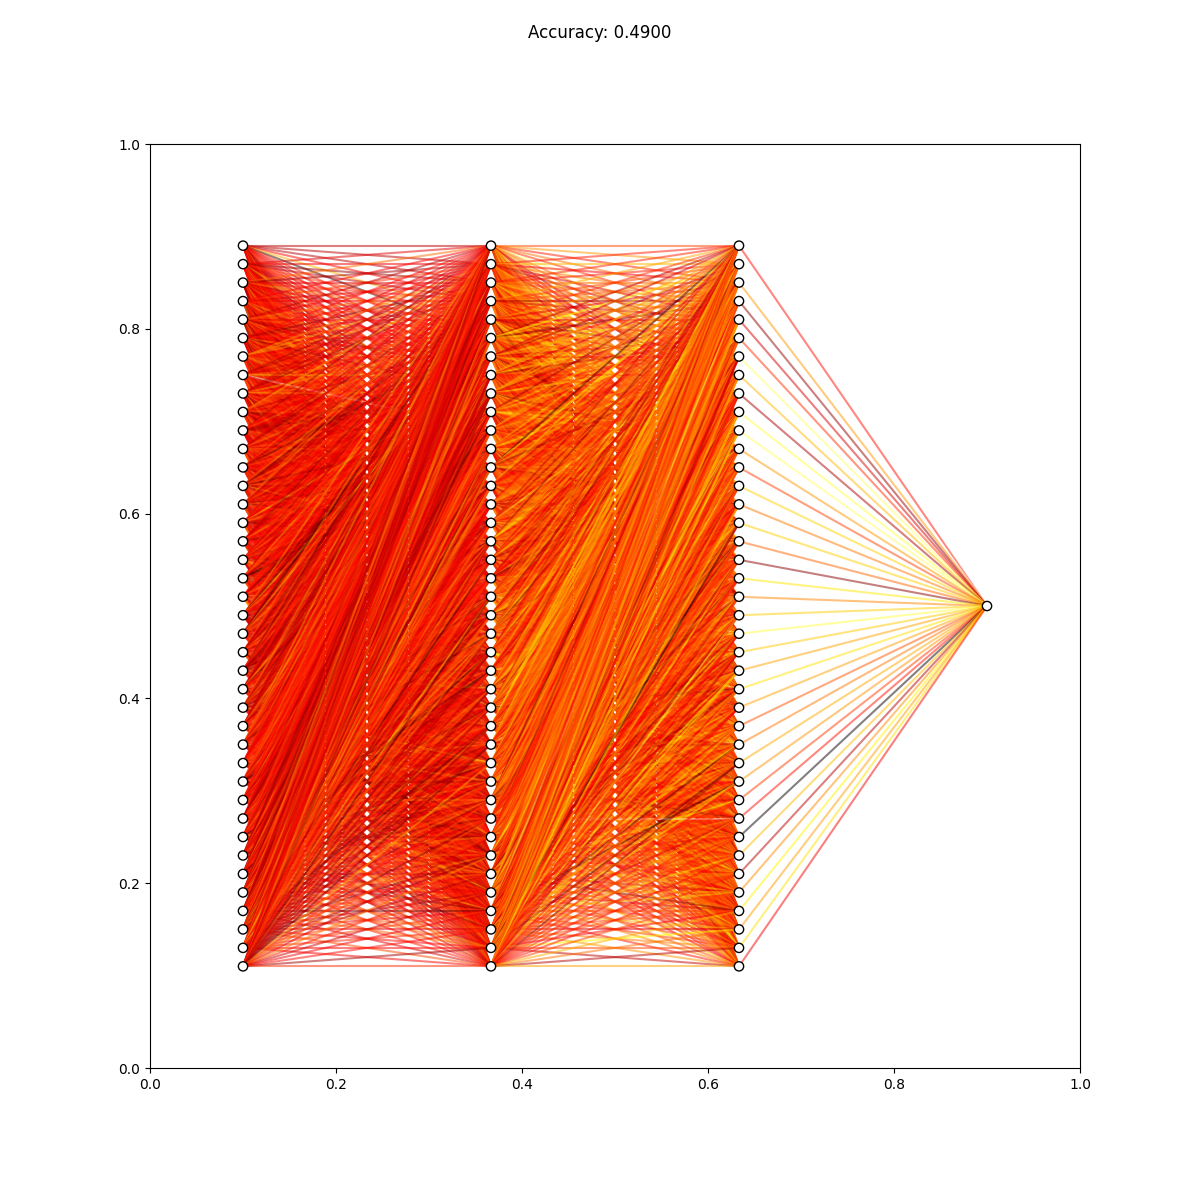
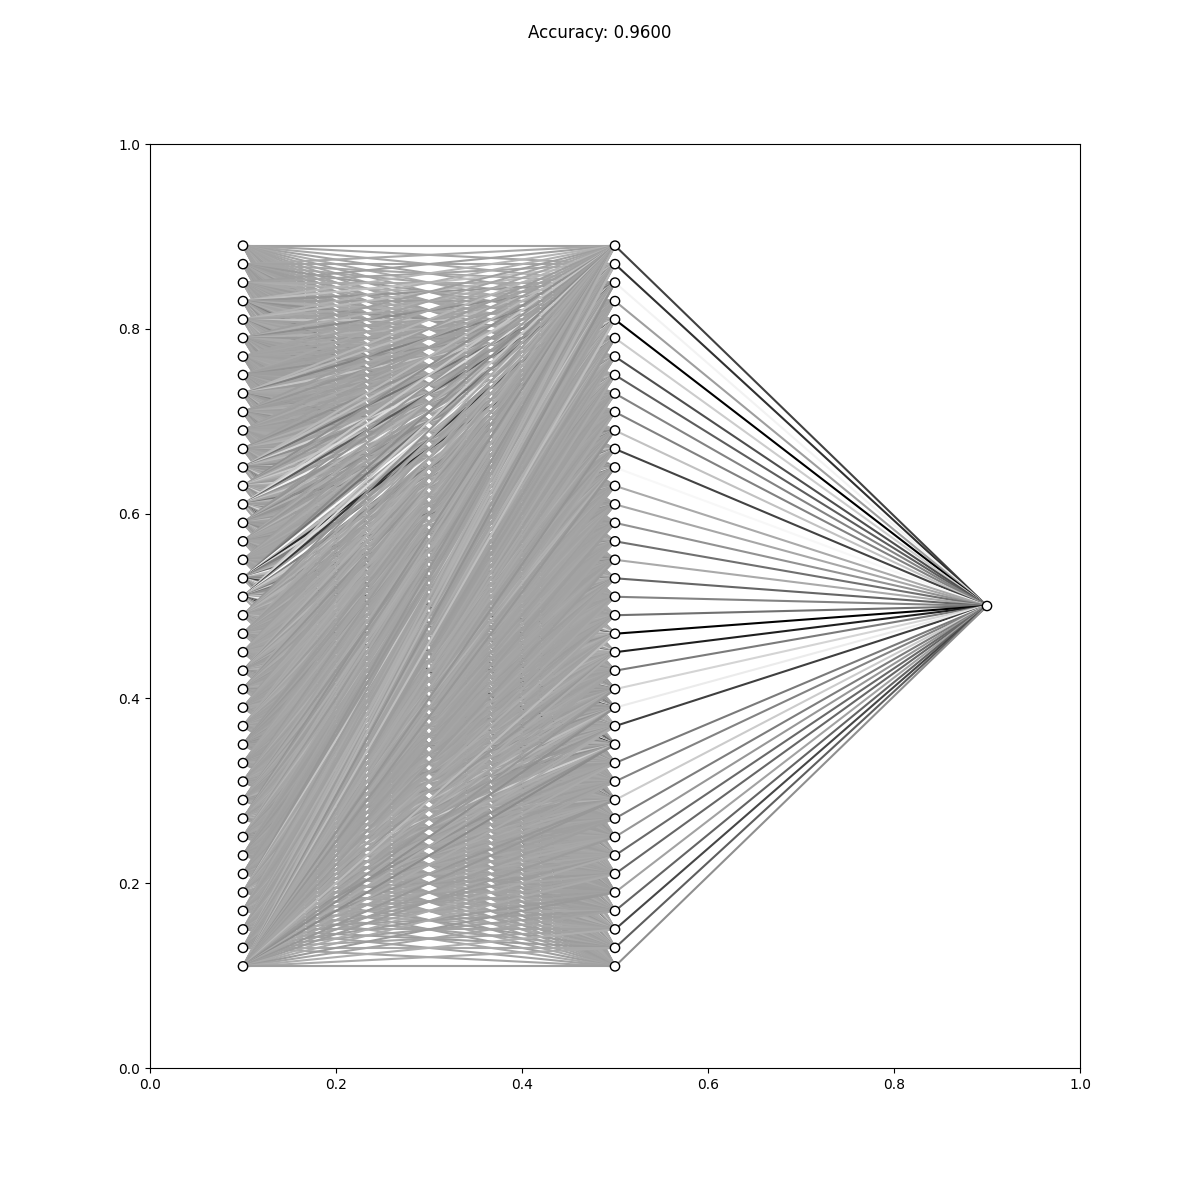
Update

Changed region(s): [[0.185, 0.185, 0.8325, 0.8325], [0.5242, 0.0, 0.555, 0.0308]]

diff --git a/train_mlp.py b/train_mlp.py
@@ -35,7 +35,7 @@ def train_mlp(weight_scale,dim_layers,n_epochs,weight_decay,lr,
         #fig,ax = plt.subplots(ncols=2,nrows=1,figsize=(24, 12))
         #ax[]
         weight_list_visualize=[weight_list[j][:,:vis_subset[j]] for j in range(len(weight_list)-1)]+[weight_list[-1]]
-        visualize_neural_net(fig.gca(), .1, .9, .1, .9, vis_subset,weight_list_visualize)
+        visualize_neural_net(fig.gca(), .1, .9, .1, .9, vis_subset,weight_list_visualize,cmap=plt.cm.Greys)
         #visualize_neural_net(fig.gca(), .1, .9, .1, .9, vis_subset,weight_list_visualize)
         #ax[1].set_xlim(xlim)
         #ax[1].set_ylim(ylim)
@@ -45,7 +45,7 @@ def train_mlp(weight_scale,dim_layers,n_epochs,weight_decay,lr,
         frame = cv2.imread(filename)
         height, width, layers = frame.shape
         
-        fps=max(int((n_epochs+1)/video_length),1)
+        fps=max(int(0.5*(n_epochs+1)/video_length),1)
         print("Frames per second: ", fps)
         fourcc = cv2.VideoWriter_fourcc(*'XVID')
         video = cv2.VideoWriter(folder+video_name+'.avi',fourcc,fps,(width, height))
@@ -80,11 +80,22 @@ def train_mlp(weight_scale,dim_layers,n_epochs,weight_decay,lr,
 
         if make_video:
             if it%plot_every==0:
-                fig = plt.figure(figsize=(12, 12))
-                #fig = plt.figure(figsize=(12, 12))
 
-                weight_list_visualize=[weight_list[j][:,:vis_subset[j]] for j in range(len(weight_list)-1)]+[weight_list[-1]]            
-                visualize_neural_net(fig.gca(), .1, .9, .1, .9, vis_subset,weight_list_visualize)#,norm=norm)
+                fig = plt.figure(figsize=(12, 12))
+                #Visualize gradients:
+                weight_list_visualize=[weight_grad_list[j][:,:vis_subset[j]] for j in range(len(weight_list)-1)]+[weight_list[-1]]            
+                visualize_neural_net(fig.gca(), .1, .9, .1, .9, vis_subset,weight_list_visualize,cmap=plt.cm.seismic)
+                fig.suptitle("Accuracy: %.4f"%acc_test)
+                #ax[1].plot(list(range(it)),val_acc_list)    
+                plt.savefig(filename)
+                video.write(cv2.imread(filename))
+                #cv2.waitKey(wait_per_frame)
+                plt.close()
+
+                fig = plt.figure(figsize=(12, 12))
+                #Visualize network:
+                weight_list_visualize=[weight_list[j][:,:vis_subset[j]] for j in range(len(weight_list)-1)]+[weight_grad_list[-1]]            
+                visualize_neural_net(fig.gca(), .1, .9, .1, .9, vis_subset,weight_list_visualize,cmap=plt.cm.Greys)
                 fig.suptitle("Accuracy: %.4f"%acc_test)
                 #ax[1].plot(list(range(it)),val_acc_list)    
                 plt.savefig(filename)

diff --git a/visualize_neural_nets.py b/visualize_neural_nets.py
@@ -2,7 +2,7 @@ import matplotlib.pyplot as plt
 import numpy as np 
 from matplotlib.colors import Normalize
 
-def visualize_neural_net(ax, left, right, bottom, top, layer_list,weight_list=None,norm=None,cmap=None):
+def visualize_neural_net(ax, left, right, bottom, top, layer_list,weight_list=None,cmap=None):
     '''
     Function to visualize a multilayer perceptron (fully connected neural network)
     This is a modification of https://gist.github.com/craffel/2d727968c3aaebd10359
@@ -28,9 +28,6 @@ def visualize_neural_net(ax, left, right, bottom, top, layer_list,weight_list=No
     Output: 
         modified ax element
     '''
-    #Create scaling for weights
-    if cmap is None:
-        cmap = plt.cm.hot
     
     #Set spacing:
     n_layers = len(layer_list)
@@ -52,8 +49,8 @@ def visualize_neural_net(ax, left, right, bottom, top, layer_list,weight_list=No
         layer_top_b = v_spacing*(layer_size_b - 1)/2. + (top + bottom)/2.
         
         if weight_list is not None:
-            vmax=weight_list[n].max()#0.5*(weight_list[n].max()-weight_list[n].min())+weight_list[n].min()
-            vmin=weight_list[n].min()
+            vmax=weight_list[n].max()
+            vmin=0.5*(weight_list[n].max()-weight_list[n].min())+weight_list[n].min()
             norm = Normalize(vmin=vmin, vmax=vmax,clip=True)
 
         for m in range(layer_size_a):
@@ -64,7 +61,7 @@ def visualize_neural_net(ax, left, right, bottom, top, layer_list,weight_list=No
                 if weight_list is not None:                    
                     weight=weight_list[n][o,m]
                     line.set_color(color=cmap(norm(weight)))
-                    line.set_alpha(0.5)
+                    #line.set_alpha(0.4)
                 ax.add_artist(line)
     
     return(ax)

diff --git a/optimize_video_network.py b/optimize_video_network.py
@@ -37,9 +37,4 @@ weight_list,train_loss_list,train_acc_list,test_loss_list,test_acc_list=train_ml
                                                                                 Y_train=Y_train,
                                                                                 X_test=X_test,
                                                                                 Y_test=Y_test,
-                                                                                print_every=10,
-                                                                                make_video=True,
-                                                                                vis_subset=VIS_SUBSET,
-                                                                                video_name='test',
-                                                                                plot_every=1,
-                                                                                video_length=30)
+                                                                                print_every=10)
